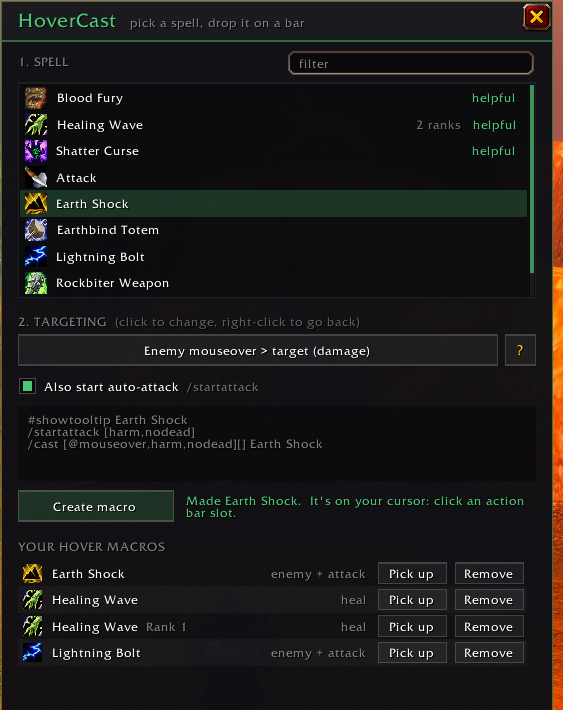
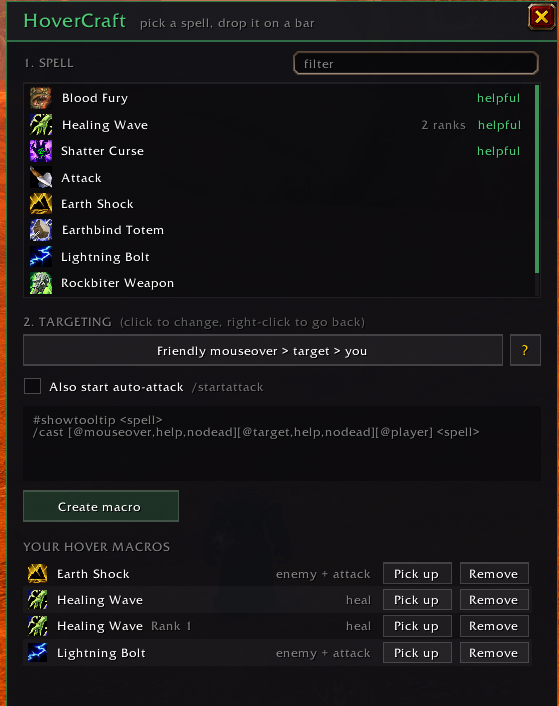
Screenshot with the HoverCraft name

diff --git a/README.md b/README.md
@@ -3,7 +3,7 @@
 Mouseover macros for **WoW: Forever**, without typing them. Pick a spell, pick how it should
 target, click **Create macro**, and the macro lands on your cursor, ready to drop onto an action bar.
 
-![HoverCraft making an Earth Shock macro with enemy targeting and auto-attack](screenshot.png)
+![The HoverCraft window: spell list, targeting, preview and your hover macros](screenshot.png)
 
 With the default targeting it writes this for you:
 
